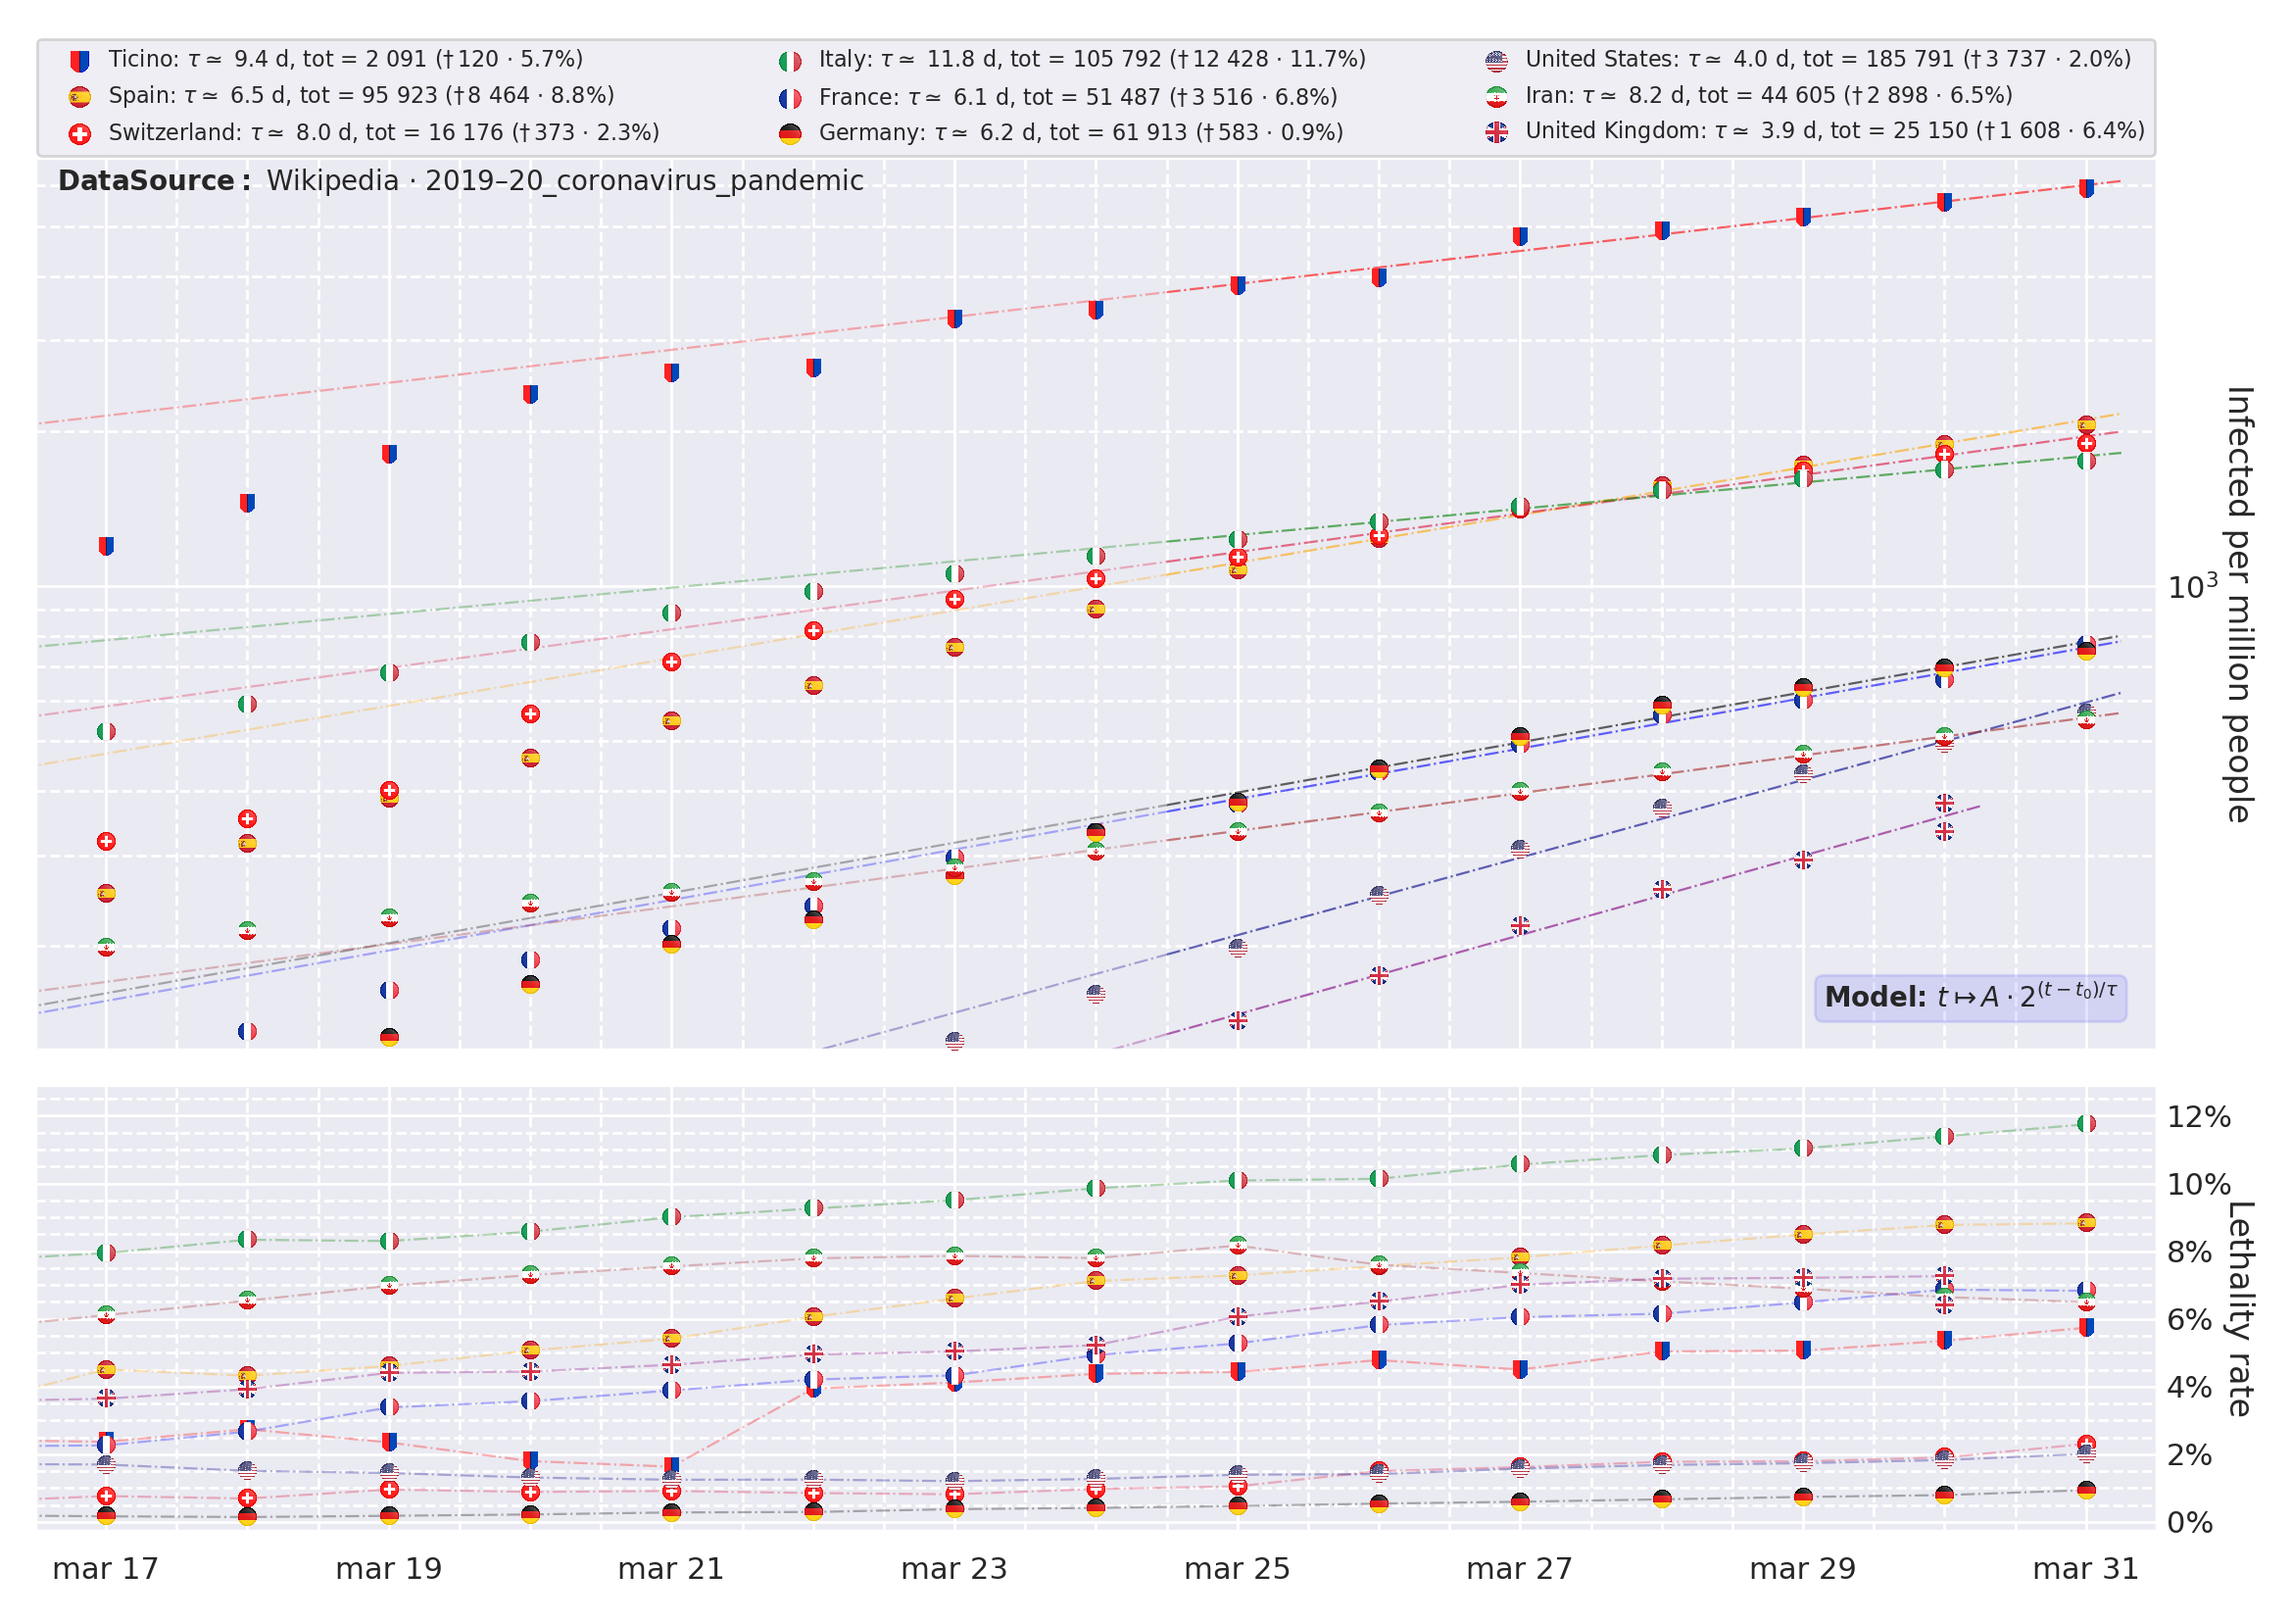
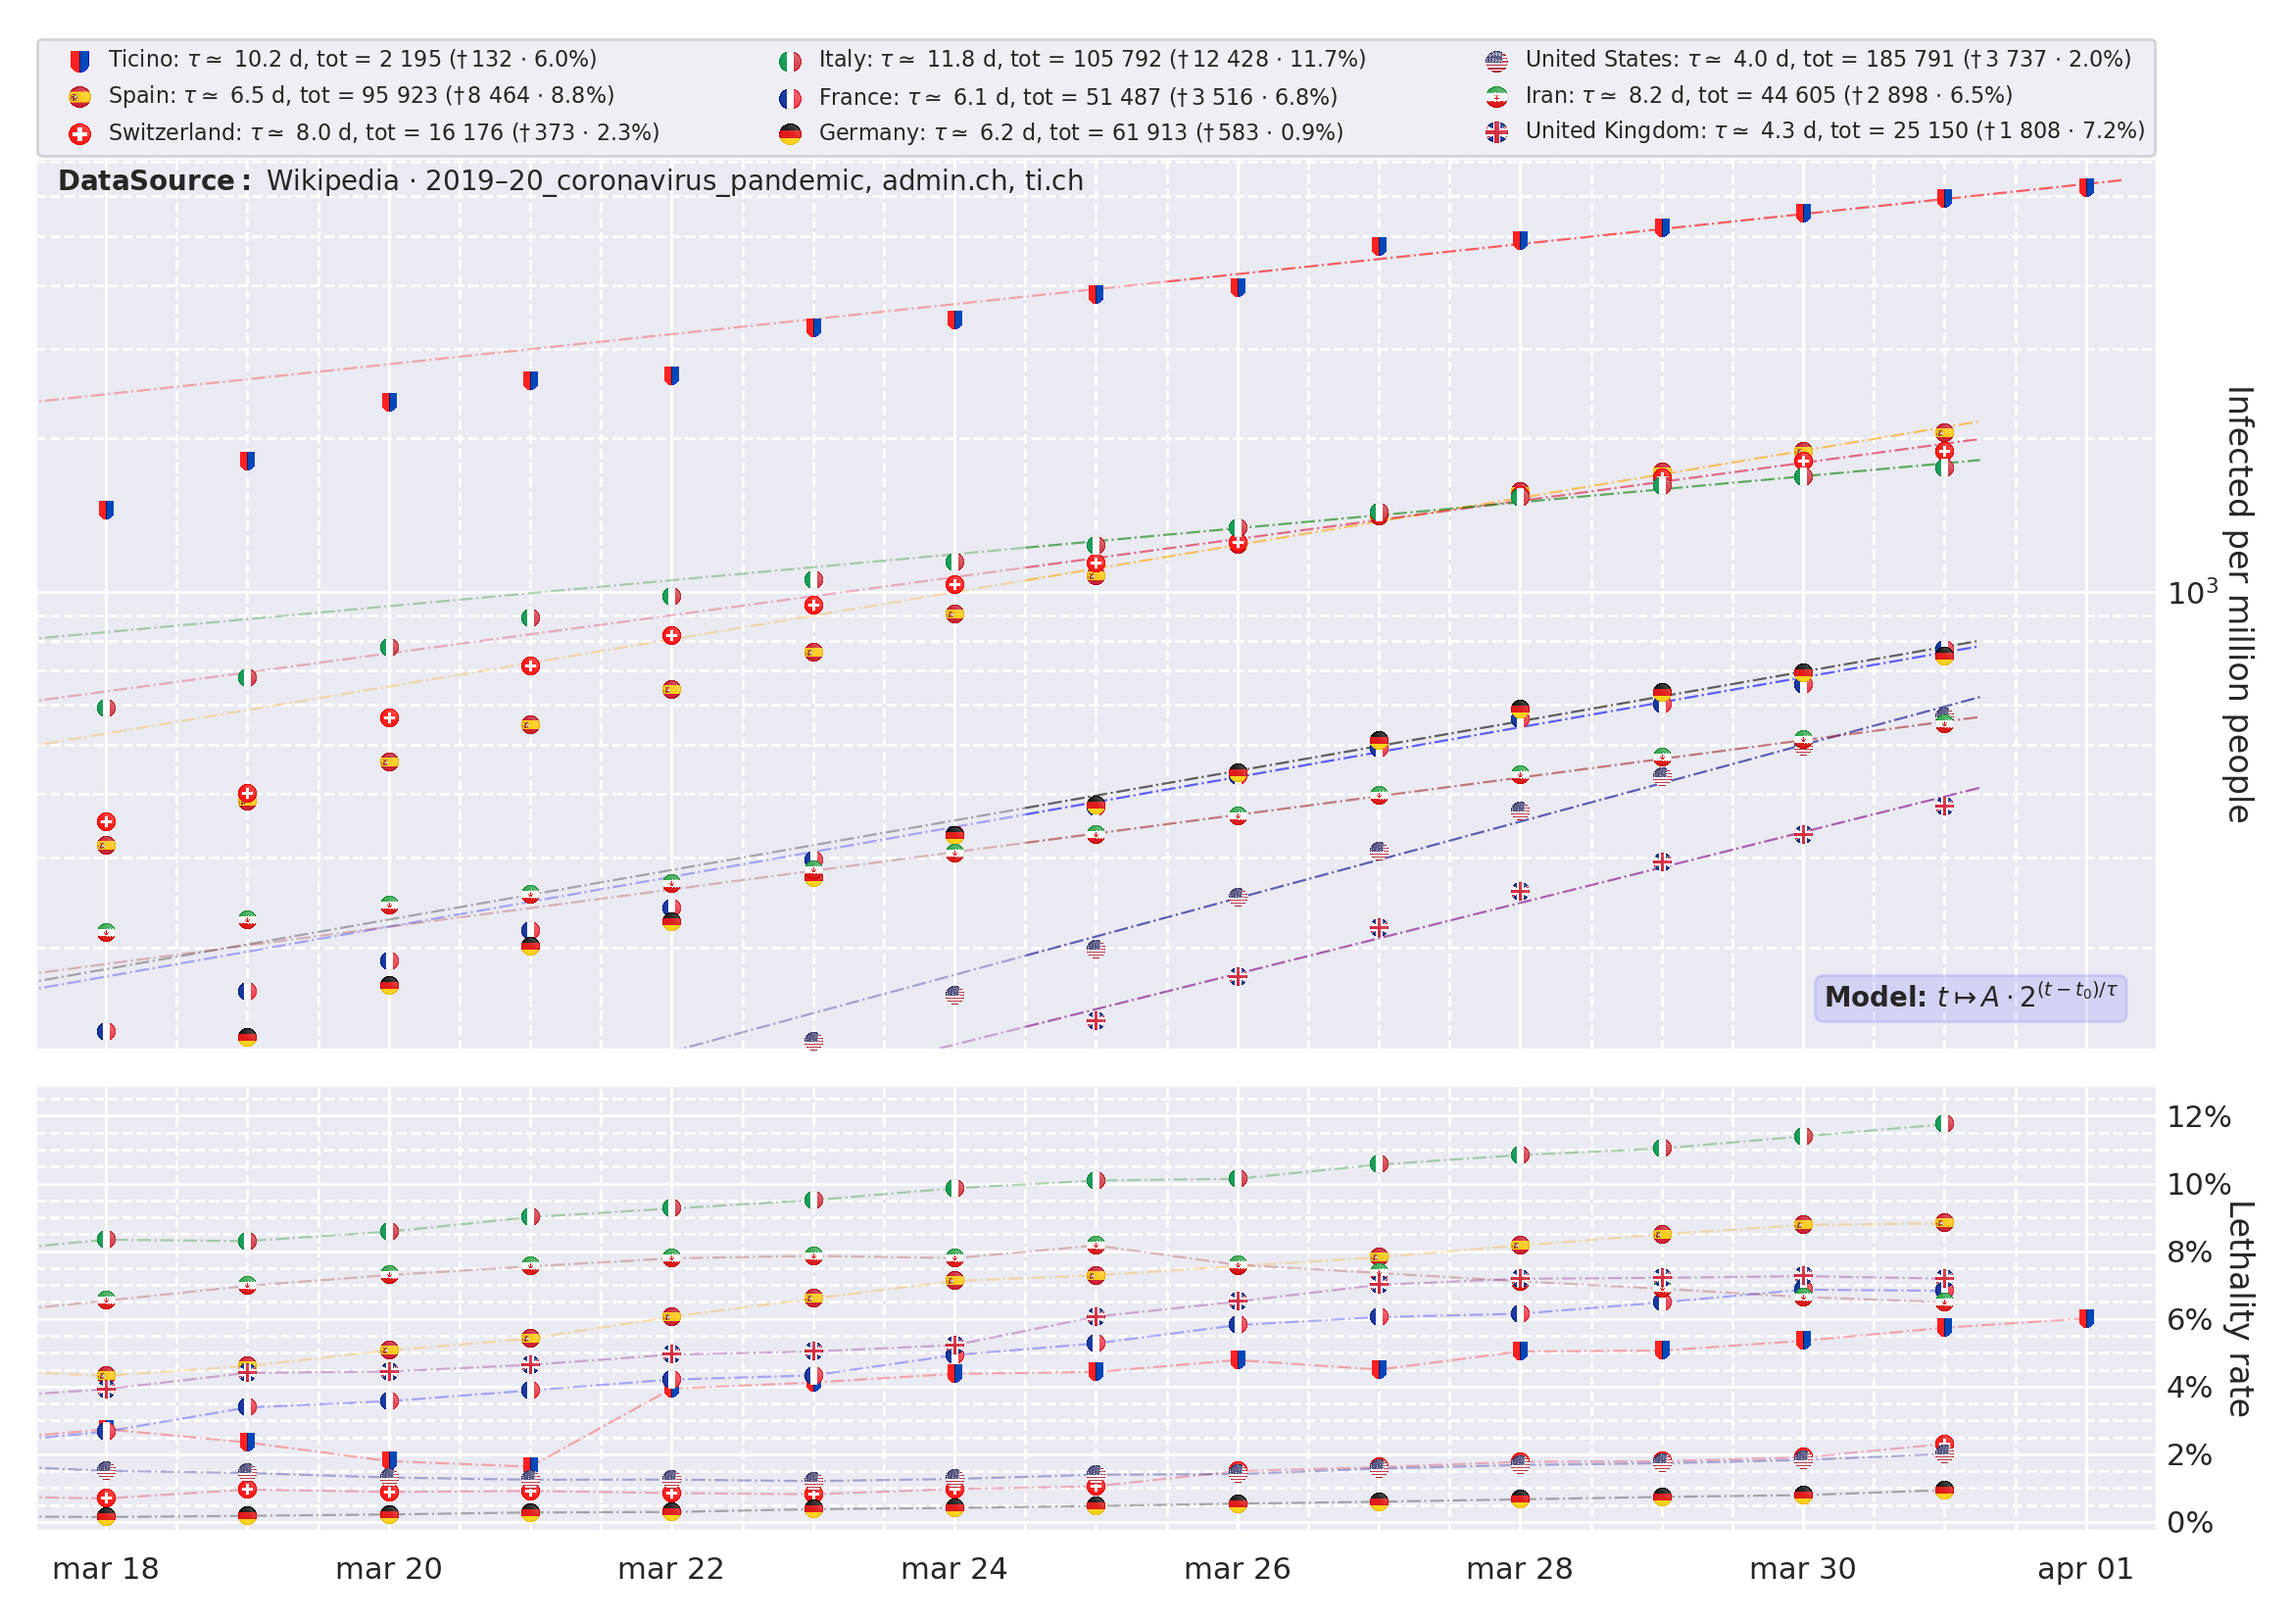
minor commit

diff --git a/Coronavirus/coronavirus.py b/Coronavirus/coronavirus.py
@@ -137,7 +137,8 @@ for idx, name in enumerate(country_ds.index):
              color=country_ds["color"].loc[name], alpha=0.3, linewidth=0.8)
 
 ax1.text(0.01, 0.99, r"$\bf{Data Source:}$ " +
-                     r"Wikipedia $\cdot$ 2019–20_coronavirus_pandemic",
+                     r"Wikipedia $\cdot$ 2019–20_coronavirus_pandemic" +
+                     r", admin.ch, ti.ch",
          size=10, ha="left", va="top", clip_on=True, transform=ax1.transAxes)
 
 ax1.text(0.982, 0.04, r"Model: $t \mapsto A\cdot 2^{(t-t_0)/\tau}$",
